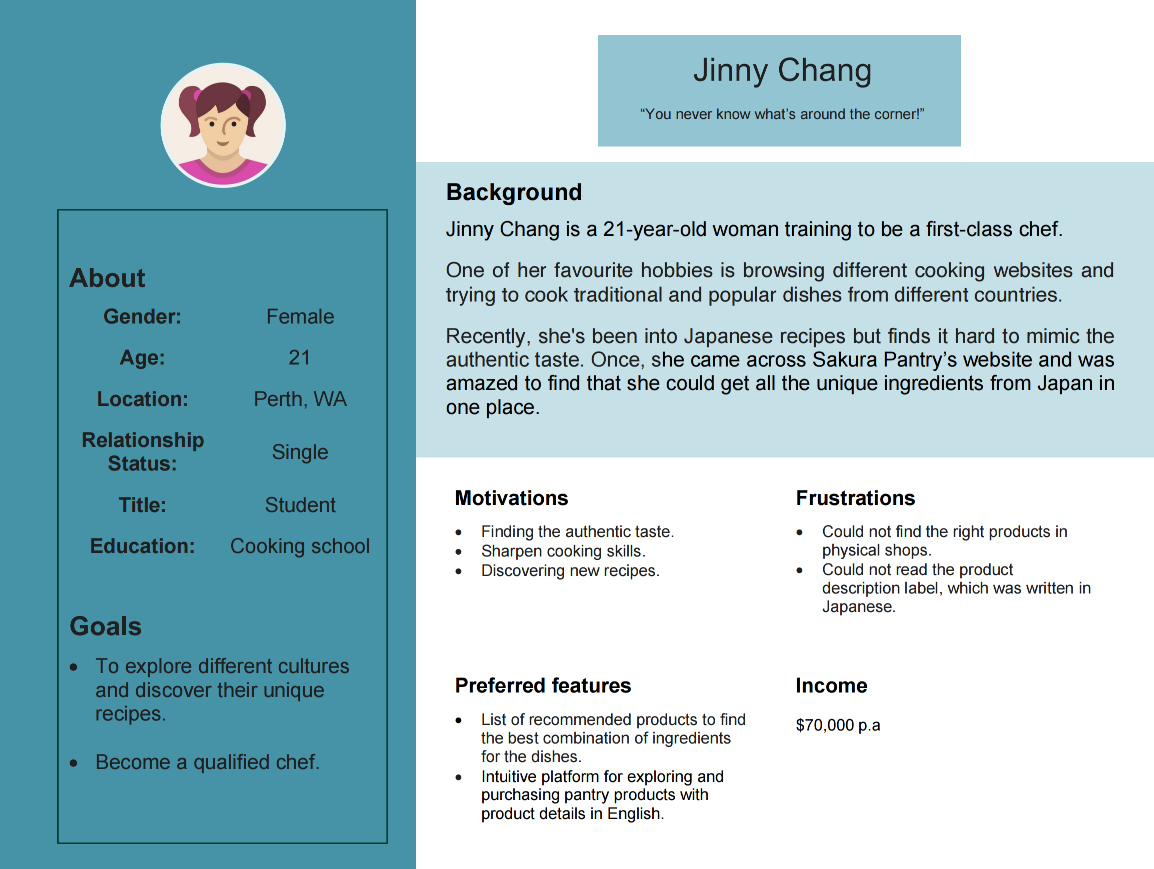
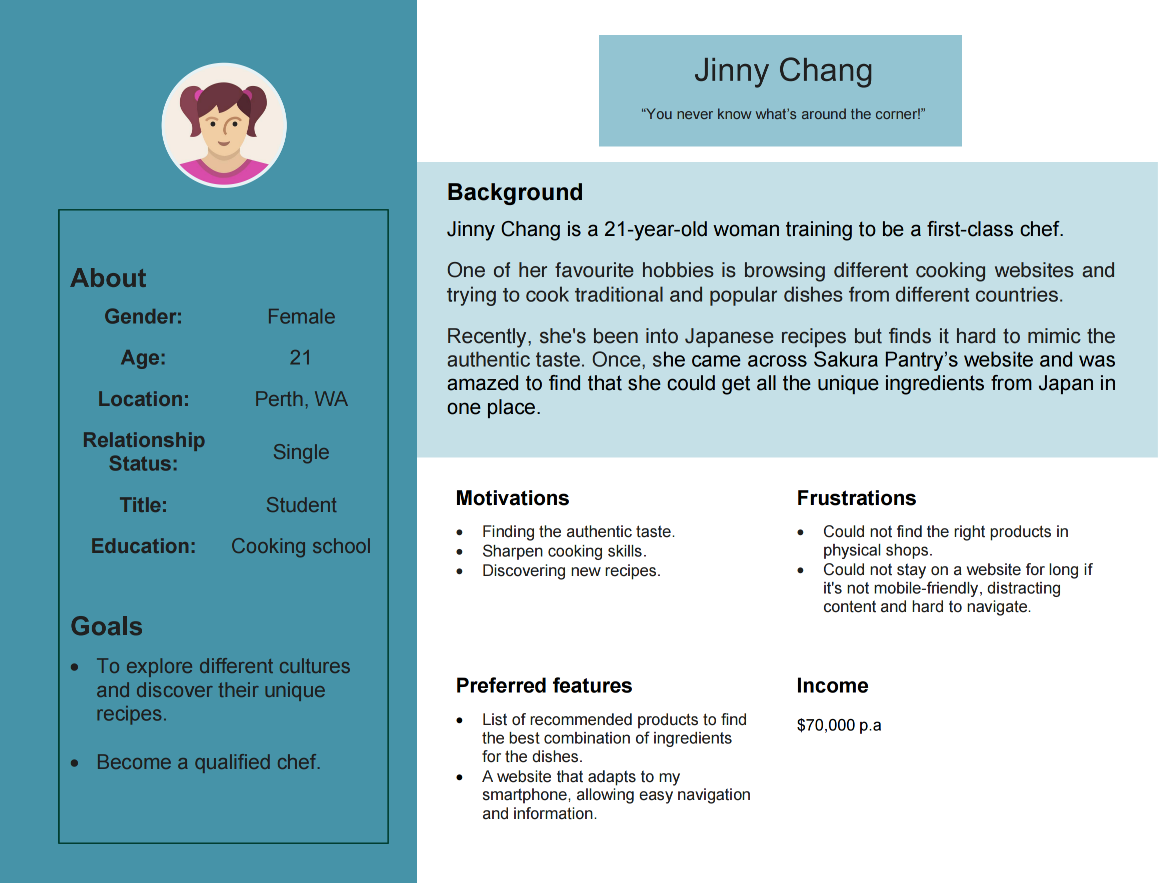
fix: modification for user stories and DFD (#14)
* fix Jinny and Ronnie's images and add a story for admin

* doc/fix-user-personas

* fix: user stories and DFD modified based on educator's feedback

* fix: minor files changes

---------

diff --git a/README.md b/README.md
@@ -153,7 +153,7 @@ The core tech stack is MERN stack.
 
 ## Dataflow Diagram
 
-![Dataflow Diagram](./docs/images/DFD/Dataflow_Diagram.png)
+![Dataflow Diagram](./docs/images/DFD/SakuraPantry-DFD-final.png)
 
 ### Data description
 
@@ -170,7 +170,7 @@ isActive: Boolean
 dateCreated: Date
 resetPasswordToken: String (encrypted)
 resetPasswordExpires: Boolean
-address : {street: String, city: String, state: String, postcode: String}
+address: {street: String, city: String, state: String, postcode: String}
 
 Products:
 _id
@@ -191,10 +191,12 @@ categorySlug: String
 Orders:
 _id
 userId: referencing _id from Users collection
-products: [{productId: referencing _id from Products, quantity: Number}]
+orderedProducts: [{productId: referencing _id from Products, quantity: Number}]
 totalPrice: Number
 orderDate: Date
 status: String
+billingInfo:{cardholder:String, accountNumber:String, CVV:String}
+shippingAddress:{street: String, city: String, state: String, postcode: String}
 ```
 
 # R3 - Application Architecture Diagram
@@ -202,70 +204,87 @@ status: String
 ![Application-Architecture-Diagram](./docs/images/AAD/application_architecture_diagram.png)
 
 # R4 - User Stories
-
 We constructed user stories and personas to improve the online store's user experience for Japanese food products. The process involves identifying and embodying customers' unique needs and expectations, including a system administrator at Sakura company.
 
 ## Initial Market Research
 
-1. As a busy parent, I want search functionality with a category filtering option to save time searching for the right product.
+1. As a guest user, I want to search for products using keywords to quickly find items of interest.
 
-2. As a busy parent, I want a contact form 24/7 to quickly ask questions or queries about products and services in the online shop, regardless of time or location.
+2. As a guest user, I would like to view featured collections showcasing popular items.
 
-3. As a user, I want to be able to search products by keywords, which allows me to find specific pantry items effortlessly. This will save me time and ensure that I quickly locate the products I'm looking for.
+3. As a guest user, I want to add products to my shopping cart so that I can review and proceed to checkout.
 
-4. As a user, I want a password recovery feature. As I do online shopping daily, I often forget my passwords.
+4. As a guest user, I want a streamlined checkout process with clear steps to provide shipping information, select payment options, and place my order.
 
-5. As a user, I want a website with a responsive design. I use my smartphone to access websites, search for products and browse information. If a website supports responsive design, the information is organised and intuitive without forcing me to scroll or zoom.
+5. As a guest user, I want a navigation bar on the online shop. The navigation bar allows me to explore the entire site efficiently and provides easy access to site contents.
 
-6. As a user, I expect a shopping cart feature on the online shop. The shopping cart allows me to manage several products I purchase at once and shop efficiently, including changing quantities and deleting items.
+6. As a guest user, I want to register for an account on an e-commerce website so that I can track my orders, benefit from personalized features, and experience a seamless and tailored shopping journey. 
 
-7. As a user, I expect to see my order history. I can see which products I have purchased and how much I have paid for them, which will help me with my next order.
+7. As a registered user, I want to log in to my account with my credentials to securely access personalized features and make purchases.
 
-8. As a user, I want a navigation bar on the online shop. The navigation bar allows me to explore the entire site efficiently and provides easy access to site contents.
+8. As a registered user, I want to view my order history to track previous purchases and check the status of current orders.
 
-9. As a user who loves new discoveries, I want a new arrivals section to give me new suggestions on Japanese products I might enjoy. 
+9. As an administrator, I want users to register and log in for the payment process, providing a personalized experience while ensuring the integrity and confidentiality of their accounts and data. 
 
-10. As a cooking enthusiast, I want to have an intuitive platform where I can enjoy browsing the different ingredients and products exclusive to Japan.
-
-11. As a non-Japanese user who needs help understanding the Japanese language, I want a website with the products translated into English to understand the product details better.
-
-12. As an administrator, I want to capture store analytics data to inform our development strategy, so I can ensure our resources are effectively aligned with business growth.
-
-13. As an administrator, I want the ability to perform CRUD operations on products and product categories, which will enable me to manage product inventory efficiently and maintain accurate stock listings.
-
-## Follow Up Market (nice to have)
-
-1. As a user, I expect to receive a sign-up confirmation email after the sign-up is complete. This will prevent any unauthorised use of my account.
-
-2. As a user, I want saved login credentials for easy access.
-
-3. As a parent, I need secure logout to prevent accidental purchases from children. 
-
-4. As a user, I expect to be able to choose different delivery options. I can compare different delivery options and choose the best option according to delivery time and price.
-
-5. As a user, I want order confirmation emails to record my order history so I can keep track of stock levels in my pantry. 
-
-6. As a user who often changes residence, I need to easily update my profile to ensure accurate delivery despite frequent changes in residence.
-
-7. As an administrator, I want the ability to efficiently manage users by CRUD performing their information and assisting with account-related matters.
+10. As an administrator, I want to compile a concise summary of store data to guide our development strategy, ensuring optimal alignment of resources with our business growth.
 
 ## User Personas
 
-Shizuka finds it challenging to travel to supermarkets where authentic Japanese food products are available whilst caring for her three children. Given the demands of raising her children, she is also looking for ways to save time when shopping for her daily food.
+In order to gain deeper insights into our target audience, we developed user personas to delve into the goals and needs of our targeted users. The following details were compiled after consulting with the target audience regarding their objectives and experiences in pursuit of those goals.
+
+**Shizuka represents Japanese people residing in Australia**
 
 ![Shizuka_Kagami](./docs/images/user_personas/Shizuka_Kagami.png)
 
-Ronnie, a user who has recently become addicted to Japanese food, faces difficulties in finding Japanese food products locally. Ronnie seeks a platform that helps discover the latest Japanese food arrivals and is also user-friendly, providing easy access to essential information.
+1. As Shizuka, I want a customizable shopping cart feature on the online shop. This feature enables me to efficiently manage multiple products in my cart, allowing me to adjust quantities and remove items as needed.
+
+2. As Shizuka, I want a 24/7 accessible contact form on the online shop, enabling me to swiftly inquire about products and services at any time and from any location.
+
+3. As Shizuka, I want a search feature with category filtering options to streamline the process of finding the right product and save valuable time.
+
+**Ronnie represents non-Japanese people who loves Japanese food products**
 
 ![Ronnie_Campbell](./docs/images/user_personas/Ronnie_Campbell.png)
 
-Not everyone know about the website before stumbling on it while browsing the internet, Jinny is one of those people. She is among numerous random shoppers, who are the potential users of the website. As a first-time user, she expects the design and layout of the website to be appealing and memorable, easy and clear navigation to make her first shopping experience effortless and seamless. This would make her come back to shop the next time. Also, she would love to know the popular products with description in English and recommended list of products that go together to gather ideas for her cooking recipes.
+4. As Ronnie, a person who enjoys discovering new items, I want a 'New Arrivals' section to provide me with fresh suggestions on Japanese products that I might find appealing.
+
+5. As Ronnie, I want an intuitive platform that allows me to enjoy exploring the diverse range of ingredients and products exclusive to Japan.
+
+6. As Ronnie, a non-Japanese user in need of assistance with the Japanese language, I want a website where products are translated into English, facilitating a better understanding of product details.
+
+**Jinny represents users who enjoy internet browsing for recipes and food ingredients.**
 
 ![Jinny_Chang](./docs/images/user_personas/Jinny_Chang.png)
 
-The final user persona focuses on Lara, a system administrator at Sakura Company. She aims to ensure efficient operations and deliver the best user experience. A reliable user database and product inventory management are essential to achieve this goal. The system is expected to be intuitive, easy to understand, and provide easy access to crucial features.
+8. As Jinny, a person who primarily accesses websites through smartphone for product searches and information browsing, I want a website with responsive design. A responsive design ensures that the information is organized and intuitive, eliminating the need for excessive scrolling or zooming on my mobile device.
+
+9. As Jinny, a cooking enthusiast, I want a list of recommended products for diverse and delicious recipes, enhancing my culinary experiences and inspiring creativity in the kitchen.
+
+**Lara represents the administrators of the website**
 
 ![Lara_Macintosh](./docs/images/user_personas/Lara_Macintosh.png)
+
+9. As Lara, I want the ability to perform CRUD operations on products and product categories, which will enable me to manage product inventory efficiently and maintain accurate stock listings.
+
+10. As Lara, I want the ability to read and update customer orders. This feature empowers me to access detailed order information, track order status and efficiently address any issues or inquiries from customers.
+
+## Follow-up Market (nice to have)
+
+After further revision, we have developed additional user stories based on both general users and targeted users to plan for more advanced nice-to-have features that aim to enhance user experience, as outlined below:
+
+1. As a registered user, I want to receive a confirmation email upon completing the sign-up process, providing an added layer of security against unauthorized access to my account.
+
+2. As a registered user, I want the option to save my login credentials for convenient and swift access to my account.
+
+3. As a registered user, I want order confirmation emails for a detailed record of my past purchases, making it easy to reference for future transactions.
+
+4. As a registered user, I want the ability to choose from various delivery options. This allows me to compare and select the most suitable option based on factors such as delivery time and price.
+
+5. As a parent, I want a secure logout feature to prevent accidental purchases by children and ensure the security of my account.
+
+6. As a user who frequently changes residence, I want an easy-to-use profile update feature to ensure accurate delivery information despite my frequent changes in address.
+
+7. As an administrator, I want the ability to efficiently manage users by performing CRUD operations on their information and assisting with account-related matters.
 
 # R5 - Wireframes
 
@@ -360,7 +379,7 @@ The admin dashboard has four pages, which are structured as tabs:
 
 - **Summary**: This tab provides an overview of the business's key metrics, such as the total number of products, orders, and registered users, all consolidated on a single summary screen.
 - **Products**: This crucial section is the heart of product management within the admin dashboard, and the admin has the authority to view the entire list of products, add new products, edit existing product details, or remove products from the listing.
-- **Categories**: Similar to the Products tab, this section empowers the admin to manage product categories. Here, the admin can view all existing categories, add new categories, update information on current categories, or remove categories as needed. This ensures that the product catalog remains well-organized and easy to navigate.
+- **Categories**: Similar to the Products tab, this section empowers the admin to manage product categories. Here, the admin can view all existing categories, add new categories, update information on current categories, or remove categories as needed. This ensures that the product catalogue remains well-organized and easy to navigate.
 - **Users**: This tab enables the admin to review the list of all registered users on the platform.
 - **Orders**: In this section, the admin is able to overview the list of all orders, and update the status of these orders.
 
